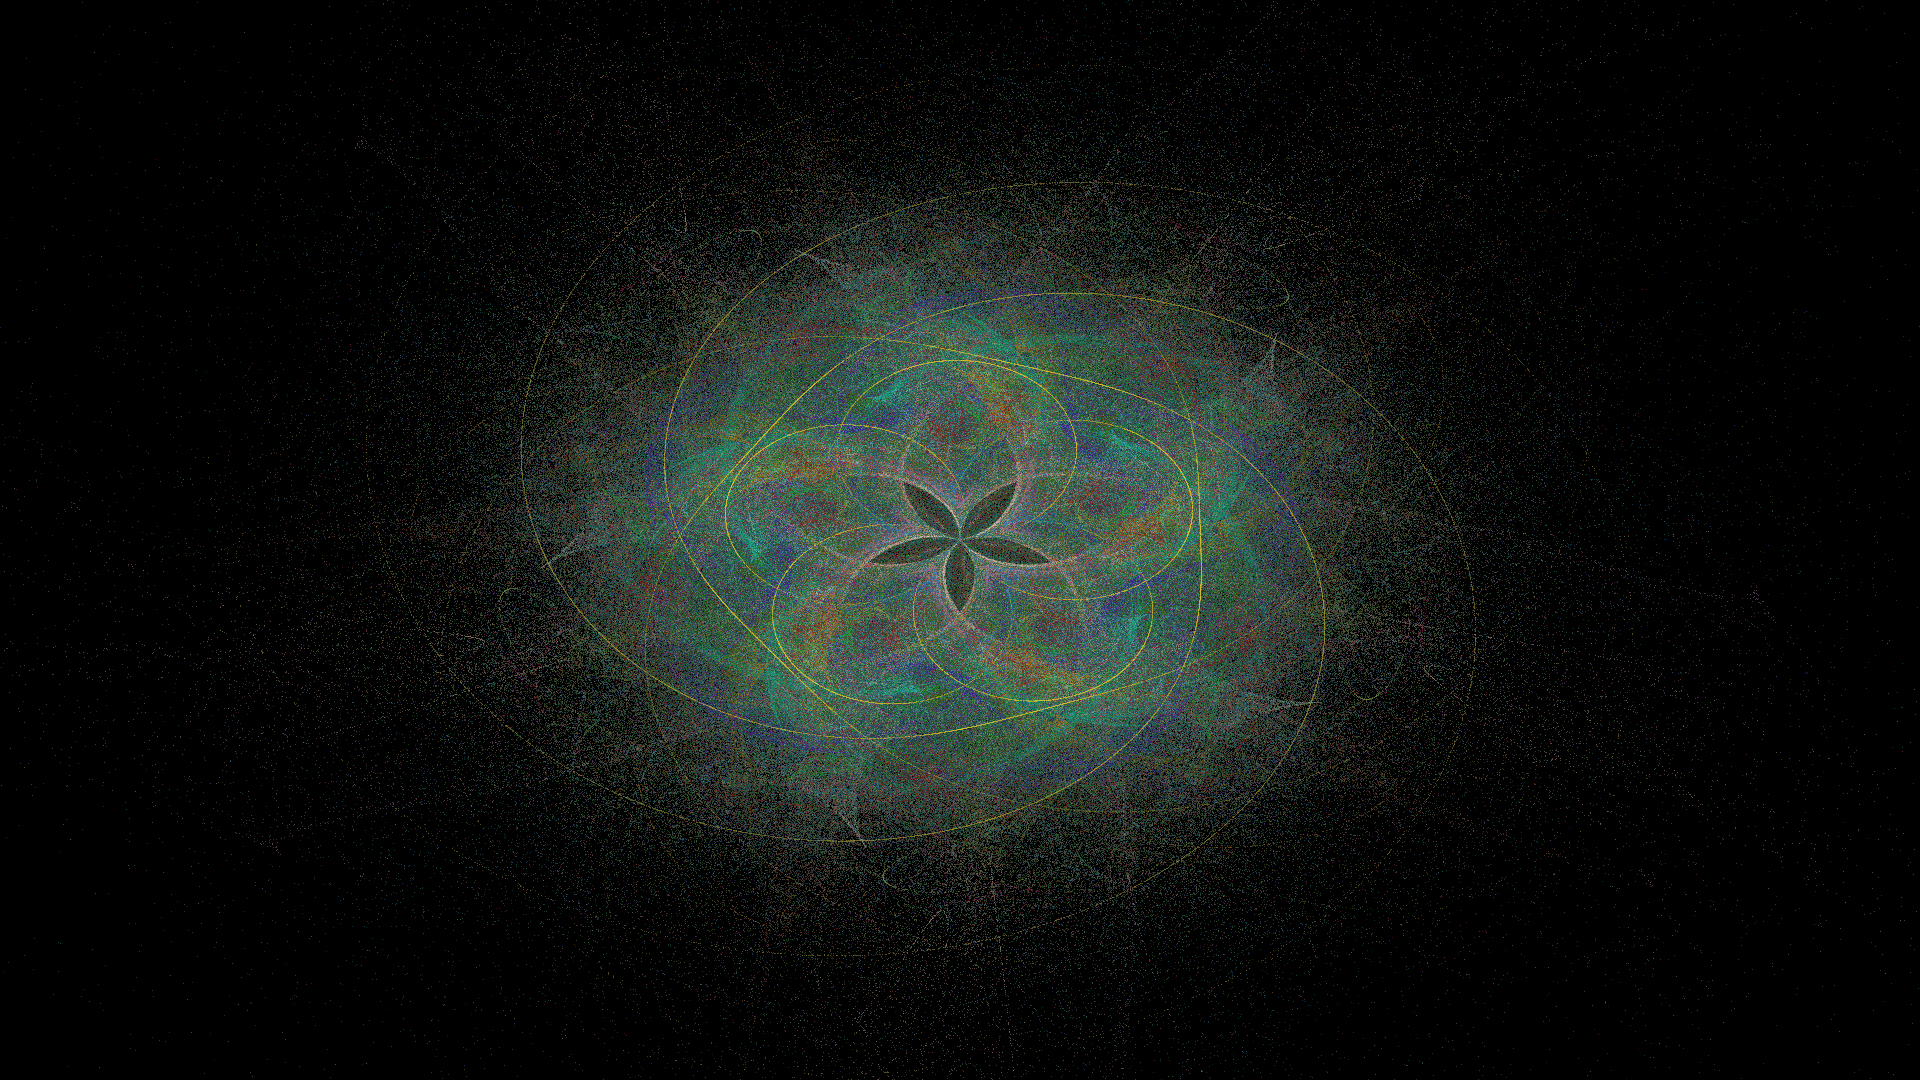
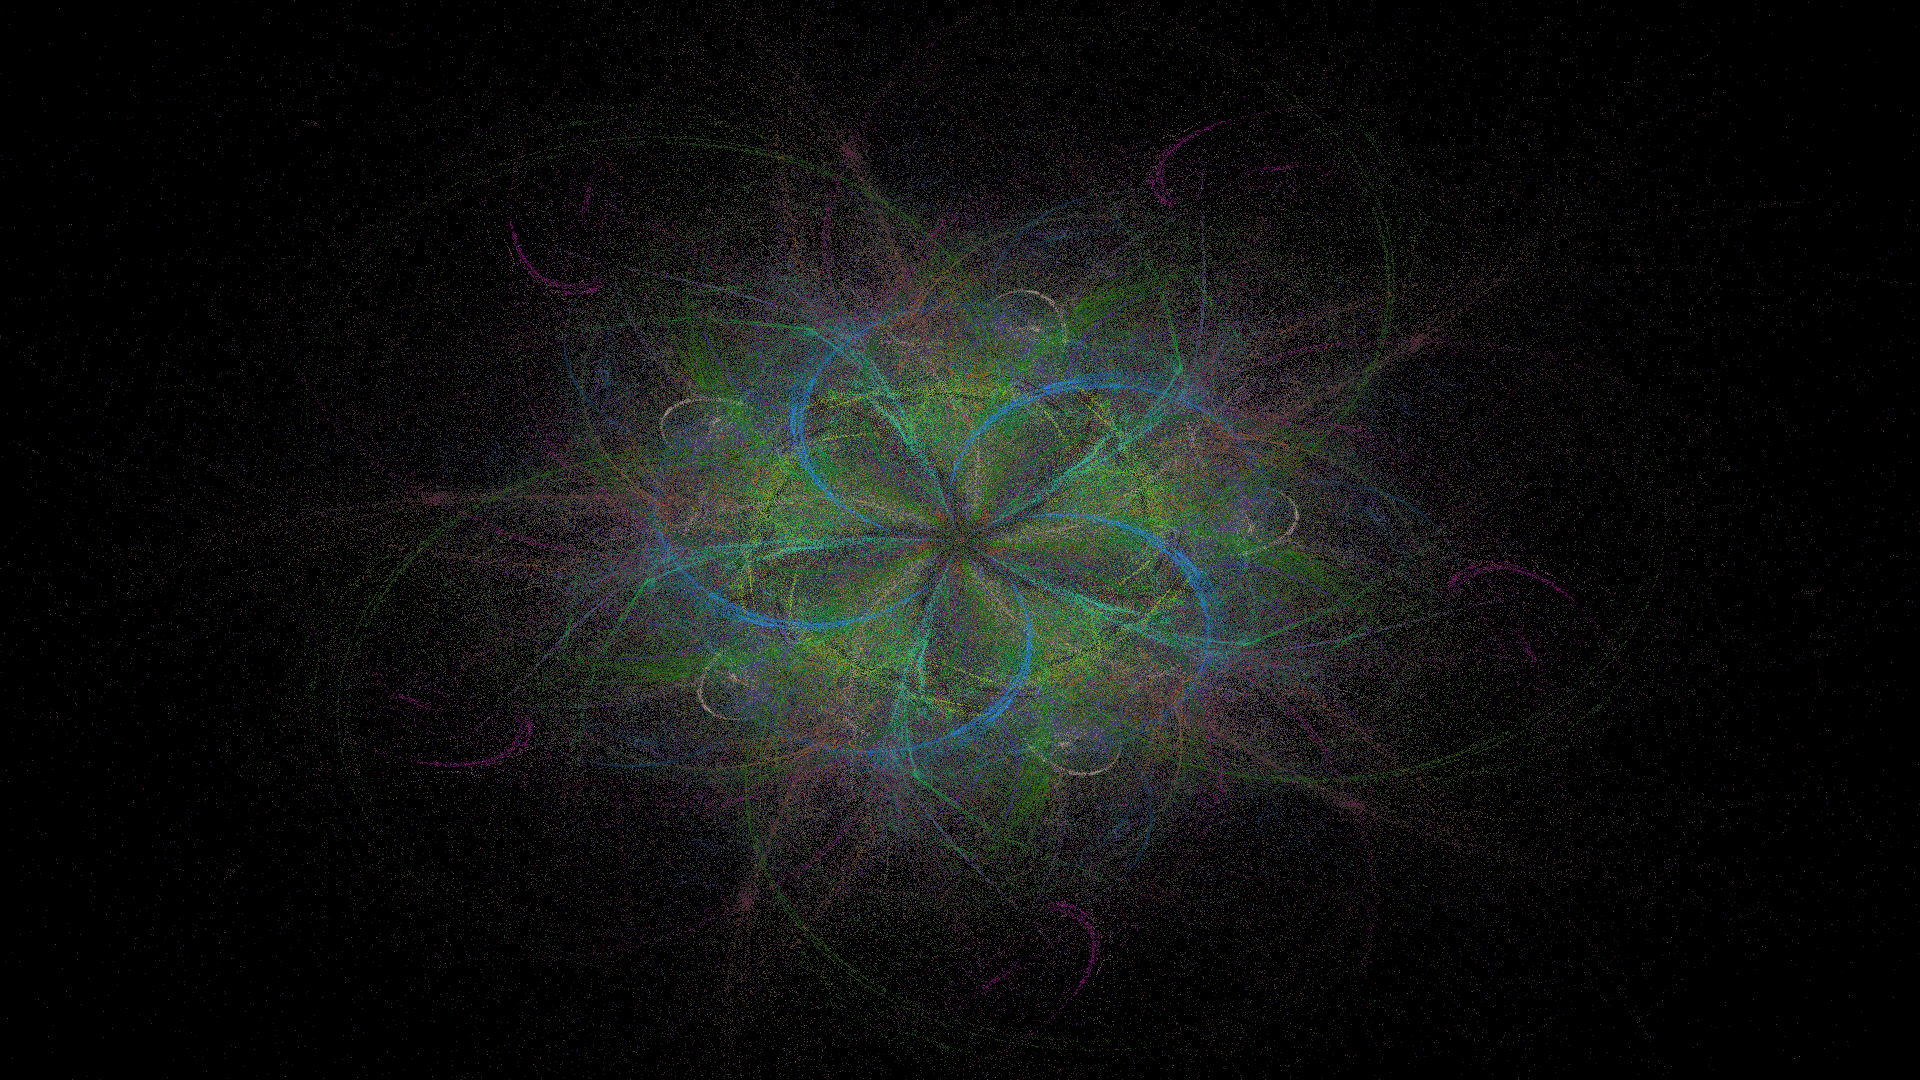
feat: add transformation factory

diff --git a/src/main/java/backend/academy/fractal/render/FractalRenderer.java b/src/main/java/backend/academy/fractal/render/FractalRenderer.java
@@ -6,7 +6,6 @@ import backend.academy.fractal.model.Point;
 import backend.academy.fractal.model.Rect;
 import backend.academy.fractal.transformation.AffineTransformation;
 import backend.academy.fractal.transformation.Transformation;
-import backend.academy.fractal.utils.RendererUtils;
 import java.util.List;
 import java.util.concurrent.ThreadLocalRandom;
 import static backend.academy.fractal.constant.FractalConstants.STEPS_FOR_CORRECTION;
@@ -15,6 +14,7 @@ import static backend.academy.fractal.utils.RendererUtils.calculateCoordinates;
 import static backend.academy.fractal.utils.RendererUtils.generateRandomAffineTransformations;
 import static backend.academy.fractal.utils.RendererUtils.generateSymmetricPoints;
 import static backend.academy.fractal.utils.RendererUtils.randomPointInRect;
+import static backend.academy.fractal.utils.RendererUtils.randomTransformation;
 
 public abstract class FractalRenderer implements Renderer {
 
@@ -55,8 +55,11 @@ public abstract class FractalRenderer implements Renderer {
         Point point = randomPointInRect(world, ThreadLocalRandom.current());
 
         for (int step = -STEPS_FOR_CORRECTION; step < iterPerSample; step++) {
-            AffineTransformation affineTransformation = RendererUtils.randomTransformation(affineTransformations, ThreadLocalRandom.current());
-            Transformation transformation = RendererUtils.randomTransformation(variations, ThreadLocalRandom.current());
+            AffineTransformation affineTransformation = randomTransformation(
+                affineTransformations,
+                ThreadLocalRandom.current()
+            );
+            Transformation transformation = randomTransformation(variations, ThreadLocalRandom.current());
 
             point = affineTransformation.apply(point);
             point = transformation.apply(point);

diff --git a/src/main/java/backend/academy/fractal/constant/FractalConstants.java b/src/main/java/backend/academy/fractal/constant/FractalConstants.java
@@ -3,14 +3,14 @@ package backend.academy.fractal.constant;
 import backend.academy.fractal.image.correction.ImageCorrectionType;
 import backend.academy.fractal.image.save.ImageFormat;
 import backend.academy.fractal.render.RendererType;
-import backend.academy.fractal.transformation.HeartTransformation;
-import backend.academy.fractal.transformation.SphereTransformation;
-import backend.academy.fractal.transformation.Transformation;
+import backend.academy.fractal.transformation.TransformationType;
 import java.util.List;
+import lombok.experimental.UtilityClass;
 import static backend.academy.fractal.image.correction.ImageCorrectionType.GAMMA_CORRECTION;
 import static backend.academy.fractal.image.save.ImageFormat.PNG;
 import static backend.academy.fractal.render.RendererType.MULTI_THREAD;
 
+@UtilityClass
 public class FractalConstants {
     public static final int THREAD_COUNT = 4;
 
@@ -31,10 +31,8 @@ public class FractalConstants {
     public static final int SAMPLES = 100;
     public static final int ITERATIONS = 10000;
 
-    public static final List<Transformation> TRANSFORMATIONS = List.of(
-        new SphereTransformation(),
-//        new DiskTransformation()
-        new HeartTransformation()
+    public static final List<TransformationType> TRANSFORMATION_TYPES = List.of(
+        TransformationType.SPHERE
     );
 
     public static final double GAMMA = 2.2;

diff --git a/src/main/java/backend/academy/fractal/factory/TransformationFactory.java b/src/main/java/backend/academy/fractal/factory/TransformationFactory.java
@@ -1,0 +1,32 @@
+package backend.academy.fractal.factory;
+
+import backend.academy.fractal.transformation.DiskTransformation;
+import backend.academy.fractal.transformation.HeartTransformation;
+import backend.academy.fractal.transformation.PolarTransformation;
+import backend.academy.fractal.transformation.SinusoidalTransformation;
+import backend.academy.fractal.transformation.SphereTransformation;
+import backend.academy.fractal.transformation.Transformation;
+import backend.academy.fractal.transformation.TransformationType;
+import java.util.List;
+import java.util.stream.Collectors;
+import lombok.experimental.UtilityClass;
+
+@UtilityClass
+public class TransformationFactory {
+
+    public static Transformation createTransformation(TransformationType type) {
+        return switch (type) {
+            case DISK -> new DiskTransformation();
+            case HEART -> new HeartTransformation();
+            case POLAR -> new PolarTransformation();
+            case SINUSOIDAL -> new SinusoidalTransformation();
+            case SPHERE -> new SphereTransformation();
+        };
+    }
+
+    public static List<Transformation> createAllTransformations(List<TransformationType> types) {
+        return types.stream()
+            .map(TransformationFactory::createTransformation)
+            .collect(Collectors.toList());
+    }
+}

diff --git a/src/main/java/backend/academy/fractal/utils/RendererUtils.java b/src/main/java/backend/academy/fractal/utils/RendererUtils.java
@@ -8,9 +8,11 @@ import backend.academy.fractal.transformation.AffineTransformation;
 import java.util.ArrayList;
 import java.util.List;
 import java.util.concurrent.ThreadLocalRandom;
+import lombok.experimental.UtilityClass;
 import static backend.academy.fractal.constant.FractalConstants.AFFINE_COUNT;
 import static backend.academy.fractal.utils.AffineCoefficientUtils.generateRandomAffineCoefficients;
 
+@UtilityClass
 public class RendererUtils {
 
     public static Point randomPointInRect(Rect world, ThreadLocalRandom random) {
@@ -23,7 +25,9 @@ public class RendererUtils {
     public static List<AffineTransformation> generateRandomAffineTransformations() {
         List<AffineTransformation> affineTransformations = new ArrayList<>();
         for (int i = 0; i < AFFINE_COUNT; i++) {
-            AffineTransformation transformation = new AffineTransformation(generateRandomAffineCoefficients(ThreadLocalRandom.current()));
+            AffineTransformation transformation = new AffineTransformation(
+                generateRandomAffineCoefficients(ThreadLocalRandom.current())
+            );
             affineTransformations.add(transformation);
         }
         return affineTransformations;

diff --git a/src/main/java/backend/academy/fractal/fractal/FractalGenerator.java b/src/main/java/backend/academy/fractal/fractal/FractalGenerator.java
@@ -17,8 +17,9 @@ import static backend.academy.fractal.constant.FractalConstants.RECT_X;
 import static backend.academy.fractal.constant.FractalConstants.RECT_Y;
 import static backend.academy.fractal.constant.FractalConstants.RENDERER_TYPE;
 import static backend.academy.fractal.constant.FractalConstants.SAMPLES;
-import static backend.academy.fractal.constant.FractalConstants.TRANSFORMATIONS;
+import static backend.academy.fractal.constant.FractalConstants.TRANSFORMATION_TYPES;
 import static backend.academy.fractal.factory.RendererFactory.createRenderer;
+import static backend.academy.fractal.factory.TransformationFactory.createAllTransformations;
 
 public class FractalGenerator {
 
@@ -33,7 +34,12 @@ public class FractalGenerator {
 
     public void start() {
         Rect world = createRect();
-        Renderer renderer = createRenderer(RENDERER_TYPE, TRANSFORMATIONS, SAMPLES, ITERATIONS);
+        Renderer renderer = createRenderer(
+            RENDERER_TYPE,
+            createAllTransformations(TRANSFORMATION_TYPES),
+            SAMPLES,
+            ITERATIONS
+        );
 
         FractalImage image = renderer.render(world, IMAGE_WITH, IMAGE_HEIGHT);
 

diff --git a/src/main/java/backend/academy/fractal/factory/FractalGeneratorFactory.java b/src/main/java/backend/academy/fractal/factory/FractalGeneratorFactory.java
@@ -3,13 +3,16 @@ package backend.academy.fractal.factory;
 import backend.academy.fractal.fractal.FractalGenerator;
 import backend.academy.fractal.image.correction.ImageProcessor;
 import backend.academy.fractal.image.save.ImageSaver;
+import lombok.experimental.UtilityClass;
 import static backend.academy.fractal.constant.FractalConstants.CORRECTION_TYPE;
 import static backend.academy.fractal.constant.FractalConstants.GAMMA;
 import static backend.academy.fractal.constant.FractalConstants.IMAGE_FORMAT;
 import static backend.academy.fractal.factory.ImageCorrectionFactory.createImageProcessor;
 import static backend.academy.fractal.factory.ImageSaveFactory.createImageSaver;
 
+@UtilityClass
 public class FractalGeneratorFactory {
+
     public static FractalGenerator createFractalGenerator() {
         ImageProcessor imageProcessor = createImageProcessor(CORRECTION_TYPE, GAMMA);
         ImageSaver imageSaver = createImageSaver(IMAGE_FORMAT);

diff --git a/src/main/java/backend/academy/fractal/render/MultiThreadRenderer.java b/src/main/java/backend/academy/fractal/render/MultiThreadRenderer.java
@@ -4,10 +4,10 @@ import backend.academy.fractal.model.FractalImage;
 import backend.academy.fractal.model.Rect;
 import backend.academy.fractal.transformation.AffineTransformation;
 import backend.academy.fractal.transformation.Transformation;
-import lombok.extern.log4j.Log4j2;
 import java.util.List;
 import java.util.concurrent.Executors;
 import java.util.concurrent.TimeUnit;
+import lombok.extern.log4j.Log4j2;
 import static backend.academy.fractal.constant.FractalConstants.THREAD_COUNT;
 
 @Log4j2

diff --git a/src/main/java/backend/academy/fractal/image/save/ImageFormatSaver.java b/src/main/java/backend/academy/fractal/image/save/ImageFormatSaver.java
@@ -2,12 +2,13 @@ package backend.academy.fractal.image.save;
 
 import backend.academy.fractal.model.FractalImage;
 import backend.academy.fractal.model.Pixel;
-import lombok.extern.log4j.Log4j2;
-import javax.imageio.ImageIO;
 import java.awt.Color;
 import java.awt.image.BufferedImage;
 import java.io.IOException;
 import java.nio.file.Path;
+import javax.imageio.ImageIO;
+import lombok.extern.log4j.Log4j2;
+
 
 @Log4j2
 public class ImageFormatSaver implements ImageSaver {

diff --git a/src/main/java/backend/academy/fractal/utils/AffineCoefficientUtils.java b/src/main/java/backend/academy/fractal/utils/AffineCoefficientUtils.java
@@ -3,8 +3,10 @@ package backend.academy.fractal.utils;
 import backend.academy.fractal.model.AffineCoefficient;
 import java.awt.Color;
 import java.util.concurrent.ThreadLocalRandom;
+import lombok.experimental.UtilityClass;
 import static backend.academy.fractal.constant.FractalConstants.MAX_COLOR_NUMBER;
 
+@UtilityClass
 public class AffineCoefficientUtils {
 
     public static AffineCoefficient generateRandomAffineCoefficients(ThreadLocalRandom random) {

diff --git a/src/main/java/backend/academy/fractal/factory/ImageCorrectionFactory.java b/src/main/java/backend/academy/fractal/factory/ImageCorrectionFactory.java
@@ -3,7 +3,9 @@ package backend.academy.fractal.factory;
 import backend.academy.fractal.image.correction.GammaCorrection;
 import backend.academy.fractal.image.correction.ImageCorrectionType;
 import backend.academy.fractal.image.correction.ImageProcessor;
+import lombok.experimental.UtilityClass;
 
+@UtilityClass
 public class ImageCorrectionFactory {
 
     public static ImageProcessor createImageProcessor(ImageCorrectionType type, double gamma) {

diff --git a/src/main/java/backend/academy/fractal/factory/ImageSaveFactory.java b/src/main/java/backend/academy/fractal/factory/ImageSaveFactory.java
@@ -3,7 +3,9 @@ package backend.academy.fractal.factory;
 import backend.academy.fractal.image.save.ImageFormat;
 import backend.academy.fractal.image.save.ImageFormatSaver;
 import backend.academy.fractal.image.save.ImageSaver;
+import lombok.experimental.UtilityClass;
 
+@UtilityClass
 public class ImageSaveFactory {
 
     public static ImageSaver createImageSaver(ImageFormat format) {

diff --git a/src/main/java/backend/academy/fractal/factory/RendererFactory.java b/src/main/java/backend/academy/fractal/factory/RendererFactory.java
@@ -6,7 +6,9 @@ import backend.academy.fractal.render.Renderer;
 import backend.academy.fractal.render.RendererType;
 import backend.academy.fractal.transformation.Transformation;
 import java.util.List;
+import lombok.experimental.UtilityClass;
 
+@UtilityClass
 public class RendererFactory {
 
     public static Renderer createRenderer(
